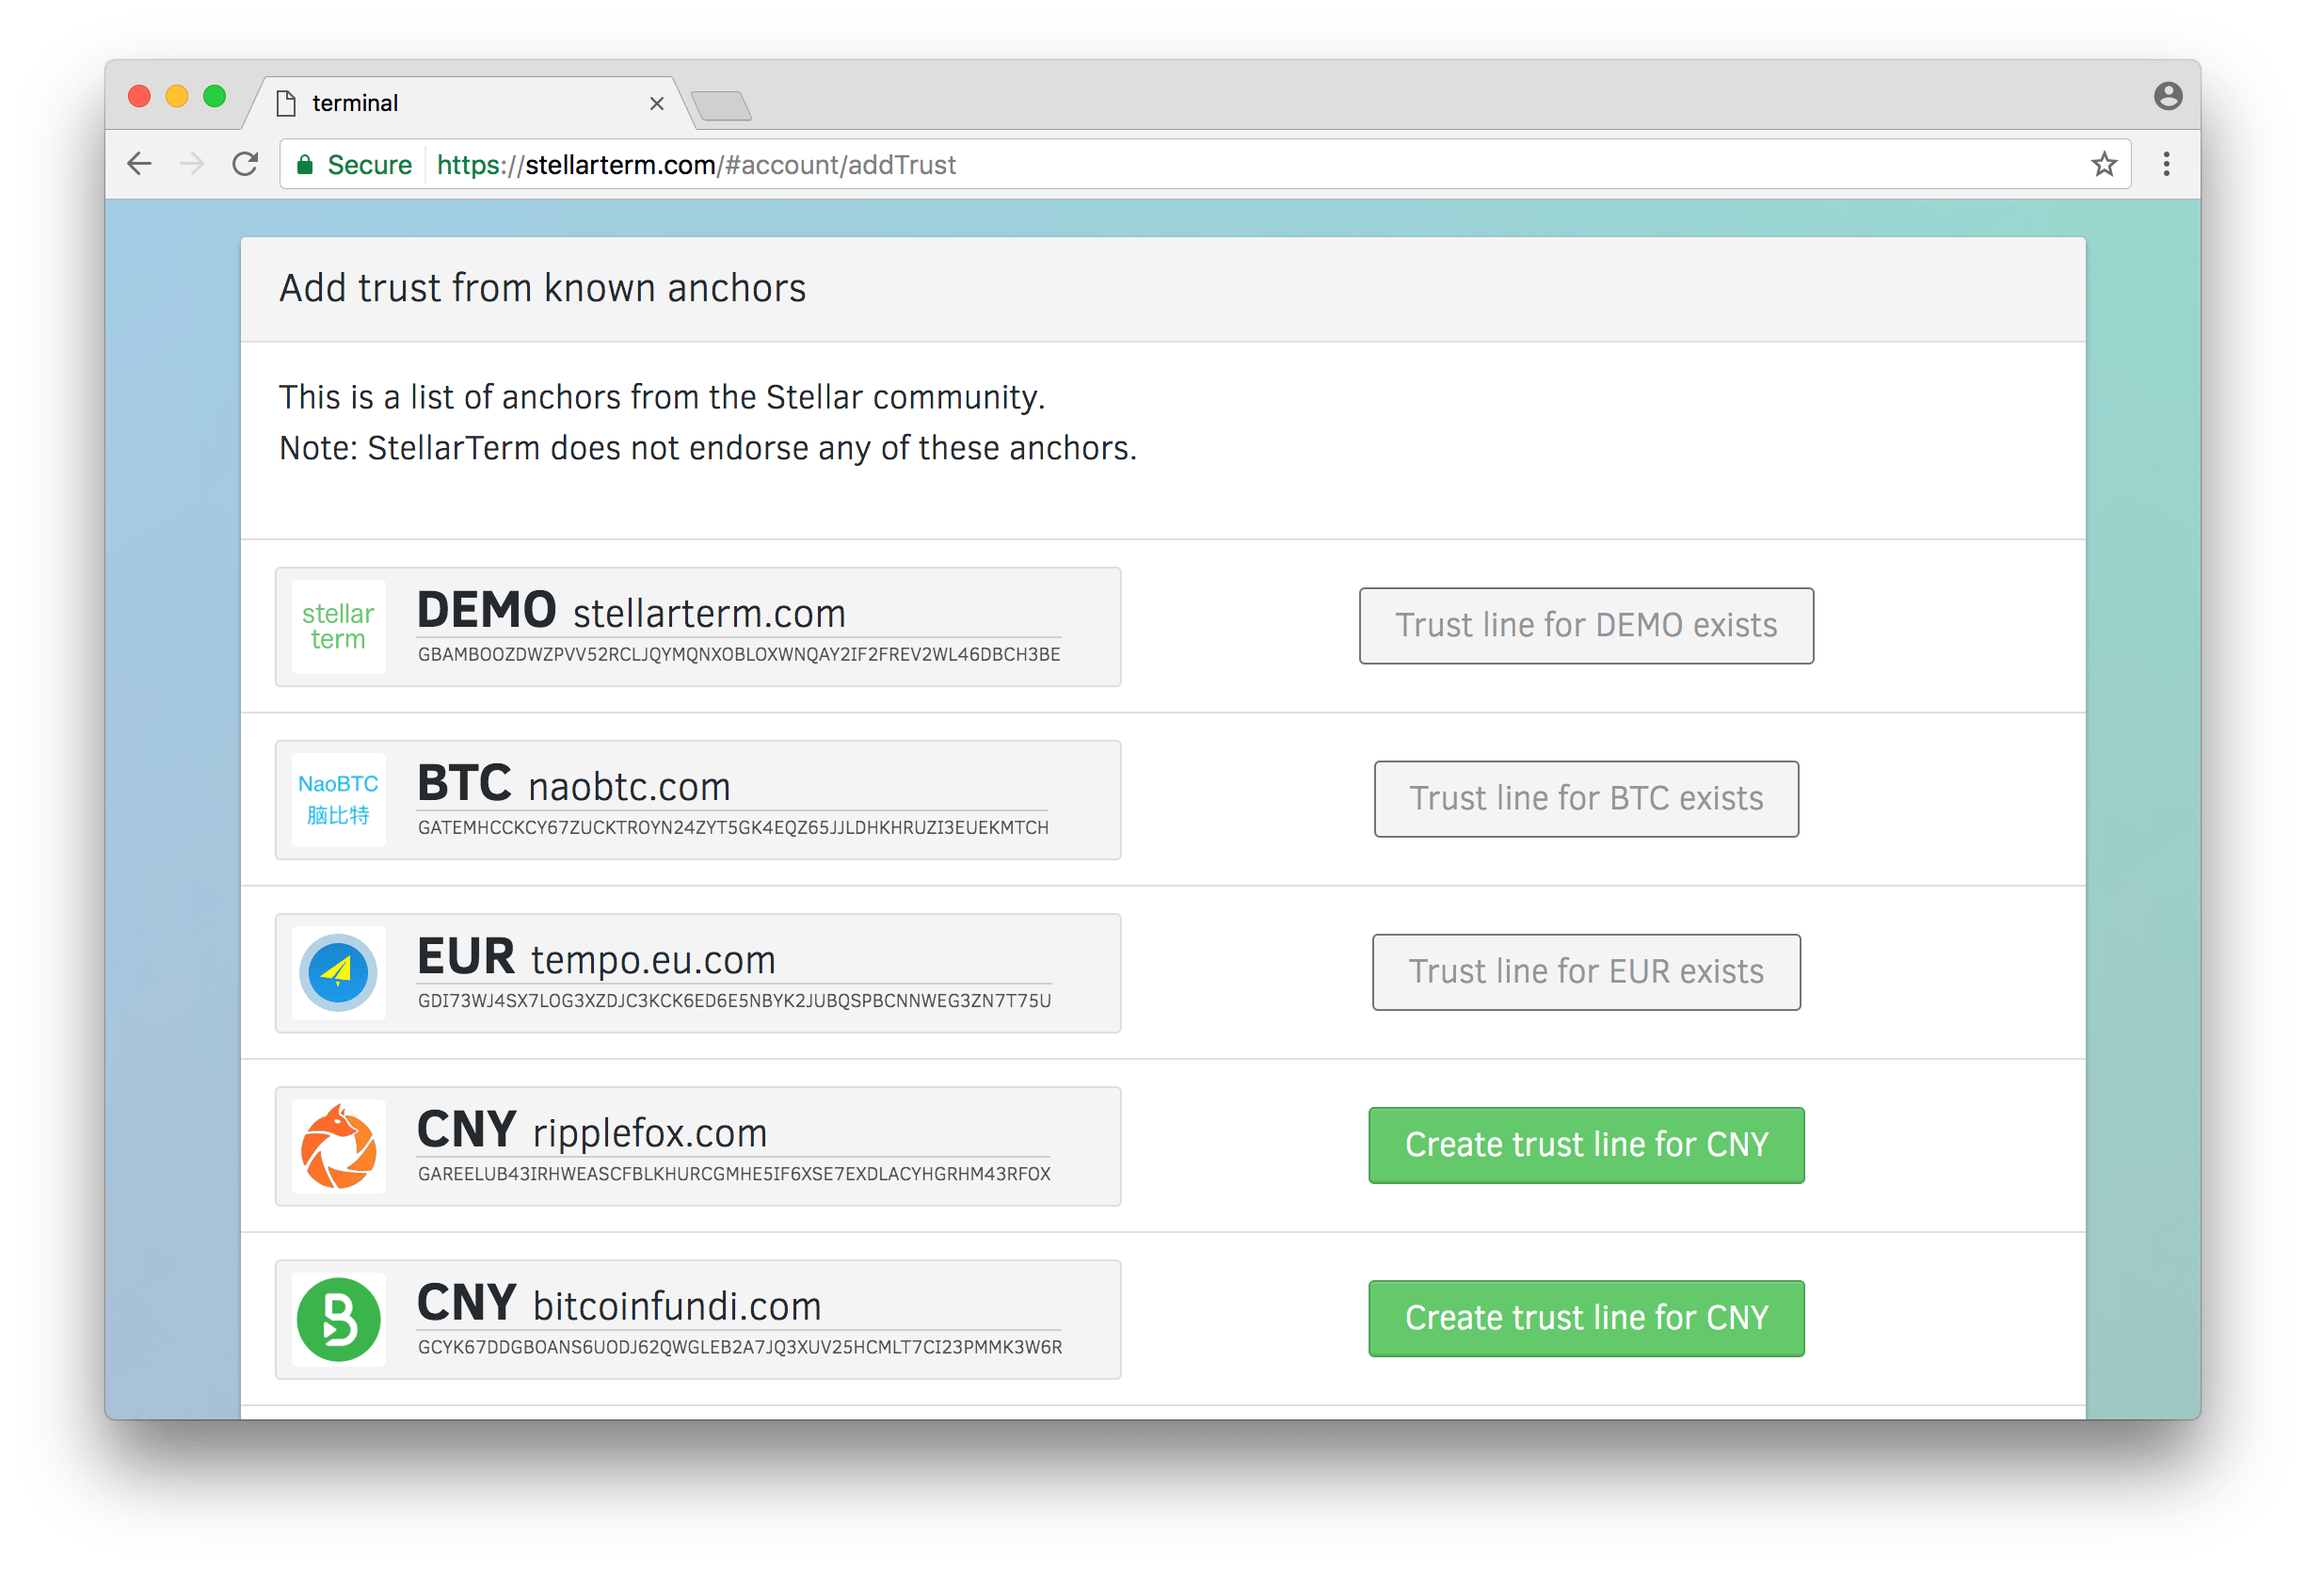
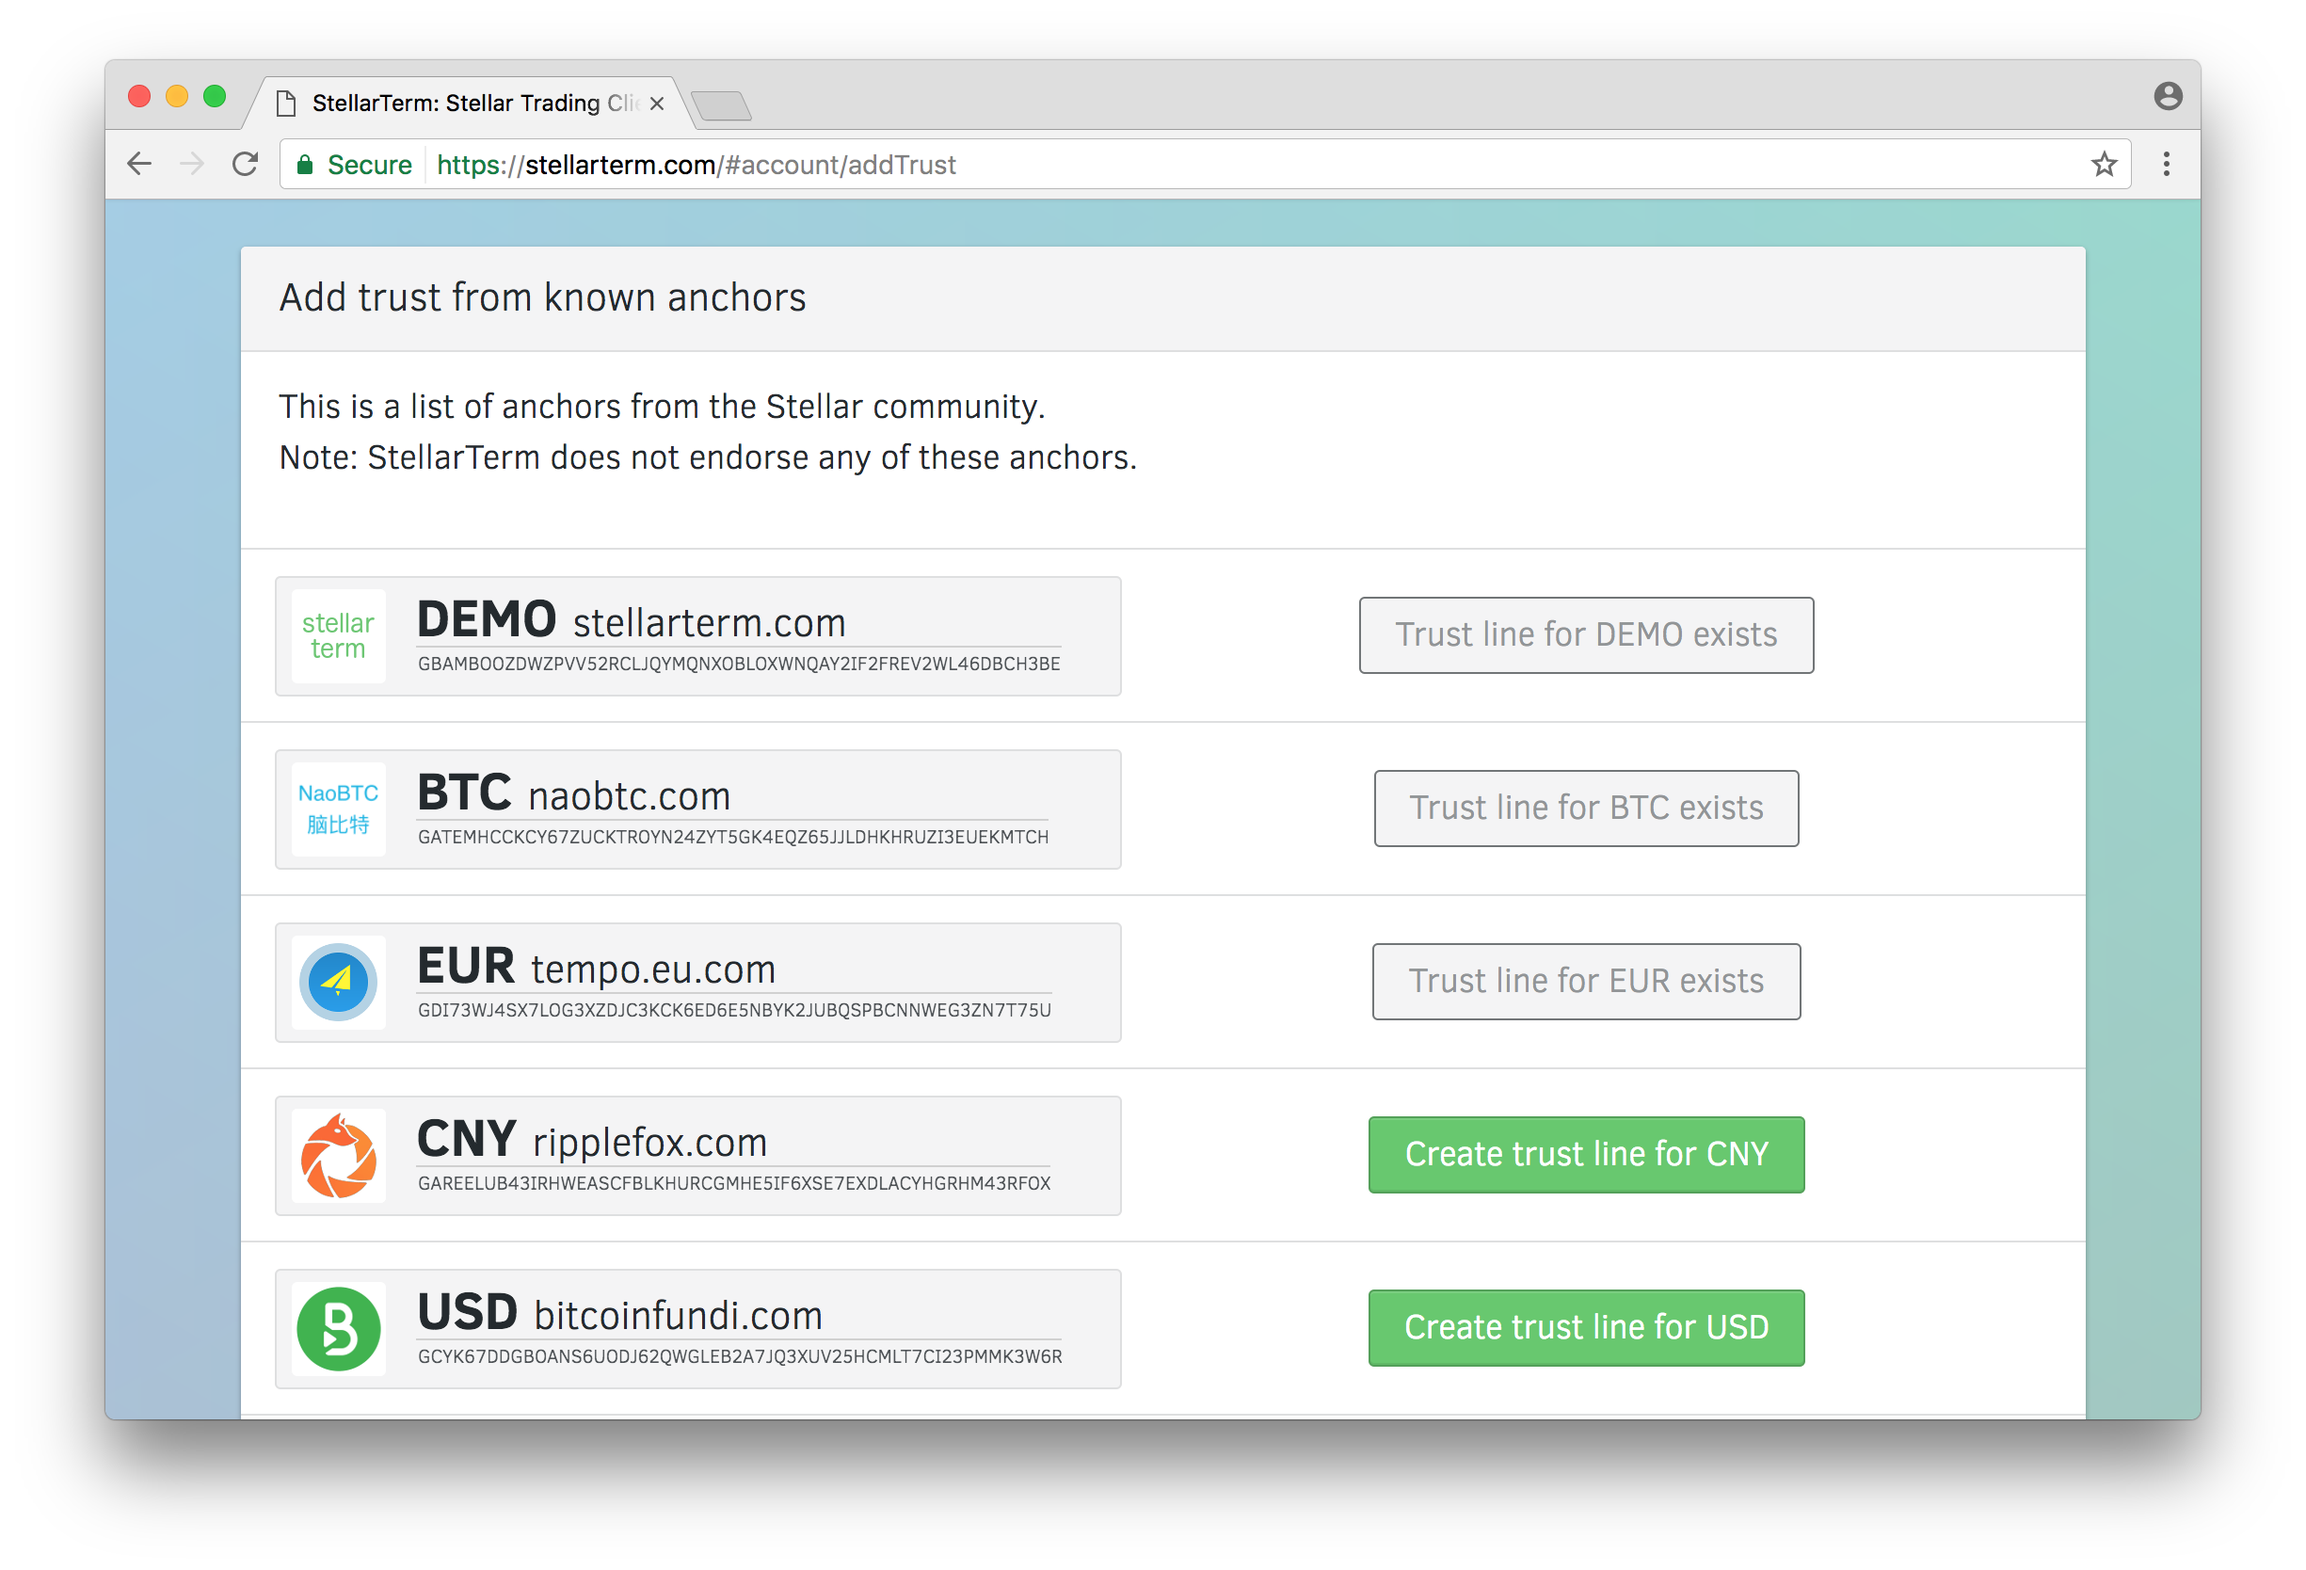
Fix screenshot and directory

diff --git a/src/directory.js b/src/directory.js
@@ -52,7 +52,7 @@ let data = {
     website: 'https://bitcoinfundi.com/',
     assets: [
       {
-        code: 'CNY',
+        code: 'USD',
         issuer: 'GCYK67DDGBOANS6UODJ62QWGLEB2A7JQ3XUV25HCMLT7CI23PMMK3W6R',
       },
       {
